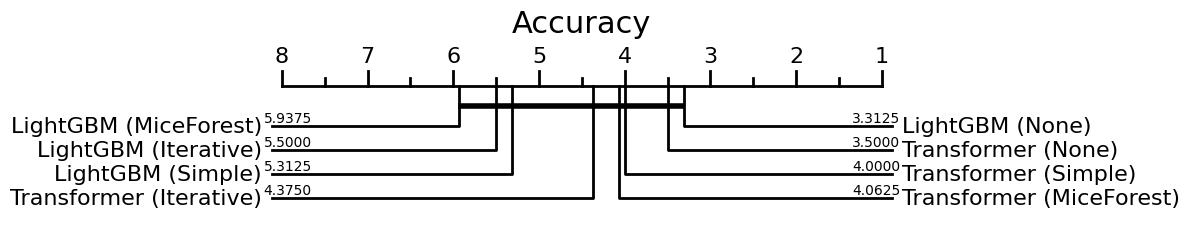
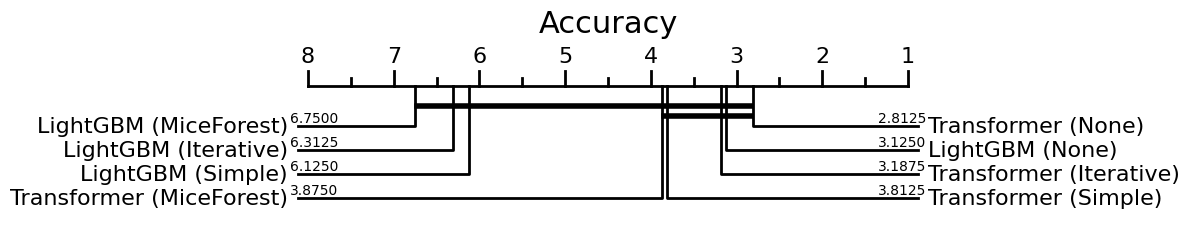
cd diagram

diff --git a/cd-diagram/run_diagram.py b/cd-diagram/run_diagram.py
@@ -19,7 +19,7 @@ for missingness in ["MNAR", "MAR", "MCAR"]:
     for r in list(itertools.product(["Transformer", "LightGBM"], ["None", "Simple", "Iterative", "MiceForest"], raw.index)):
         df_perf['classifier_name'].append(r[0] + " (" + r[1] + ")")
         df_perf['dataset_name'].append(r[2])
-        df_perf['accuracy'].append(1.0 / float(raw.loc[r[2]][missingness][r[1]][r[0]]))
+        df_perf['accuracy'].append(-float(raw.loc[r[2]][missingness][r[1]][r[0]]))
 
     df_perf = pd.DataFrame(df_perf)
     print(df_perf)
